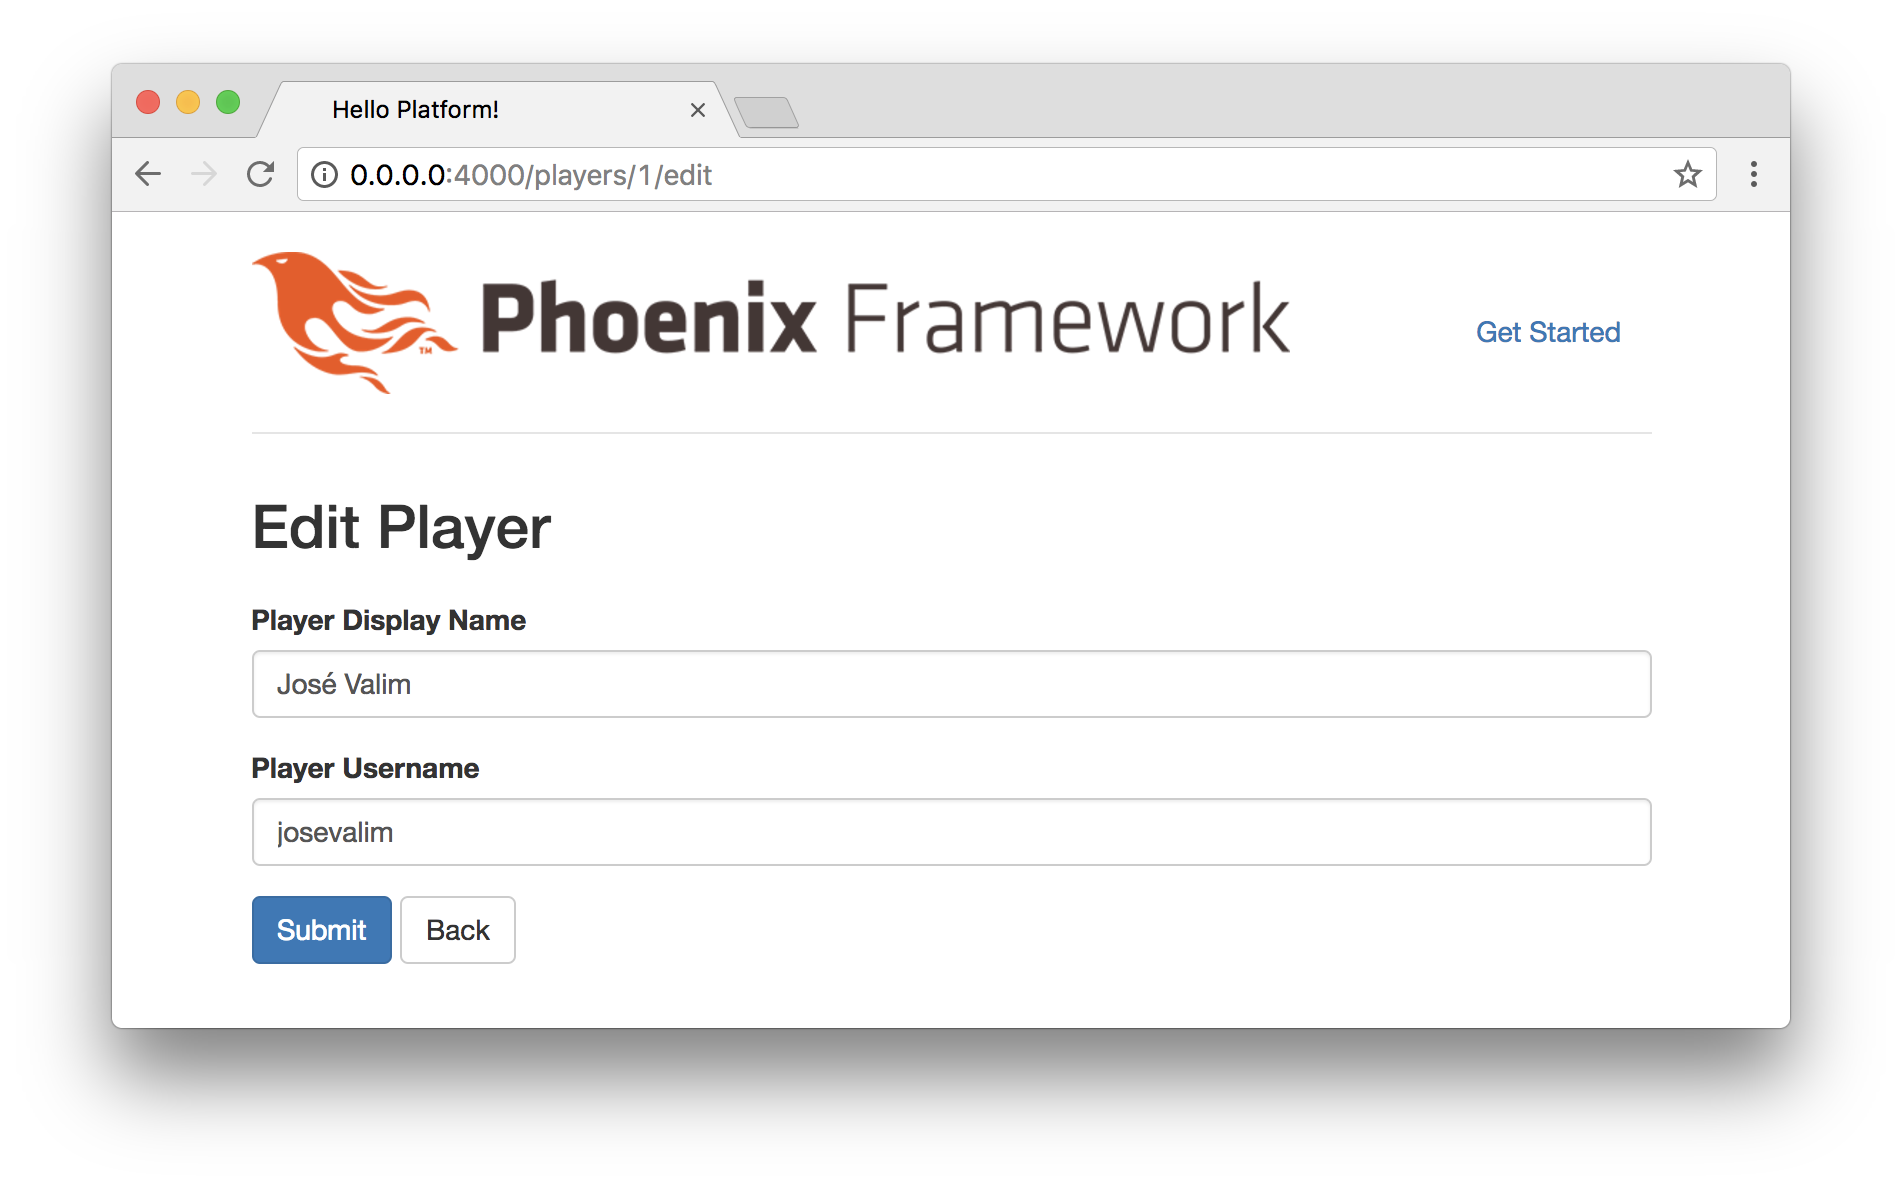
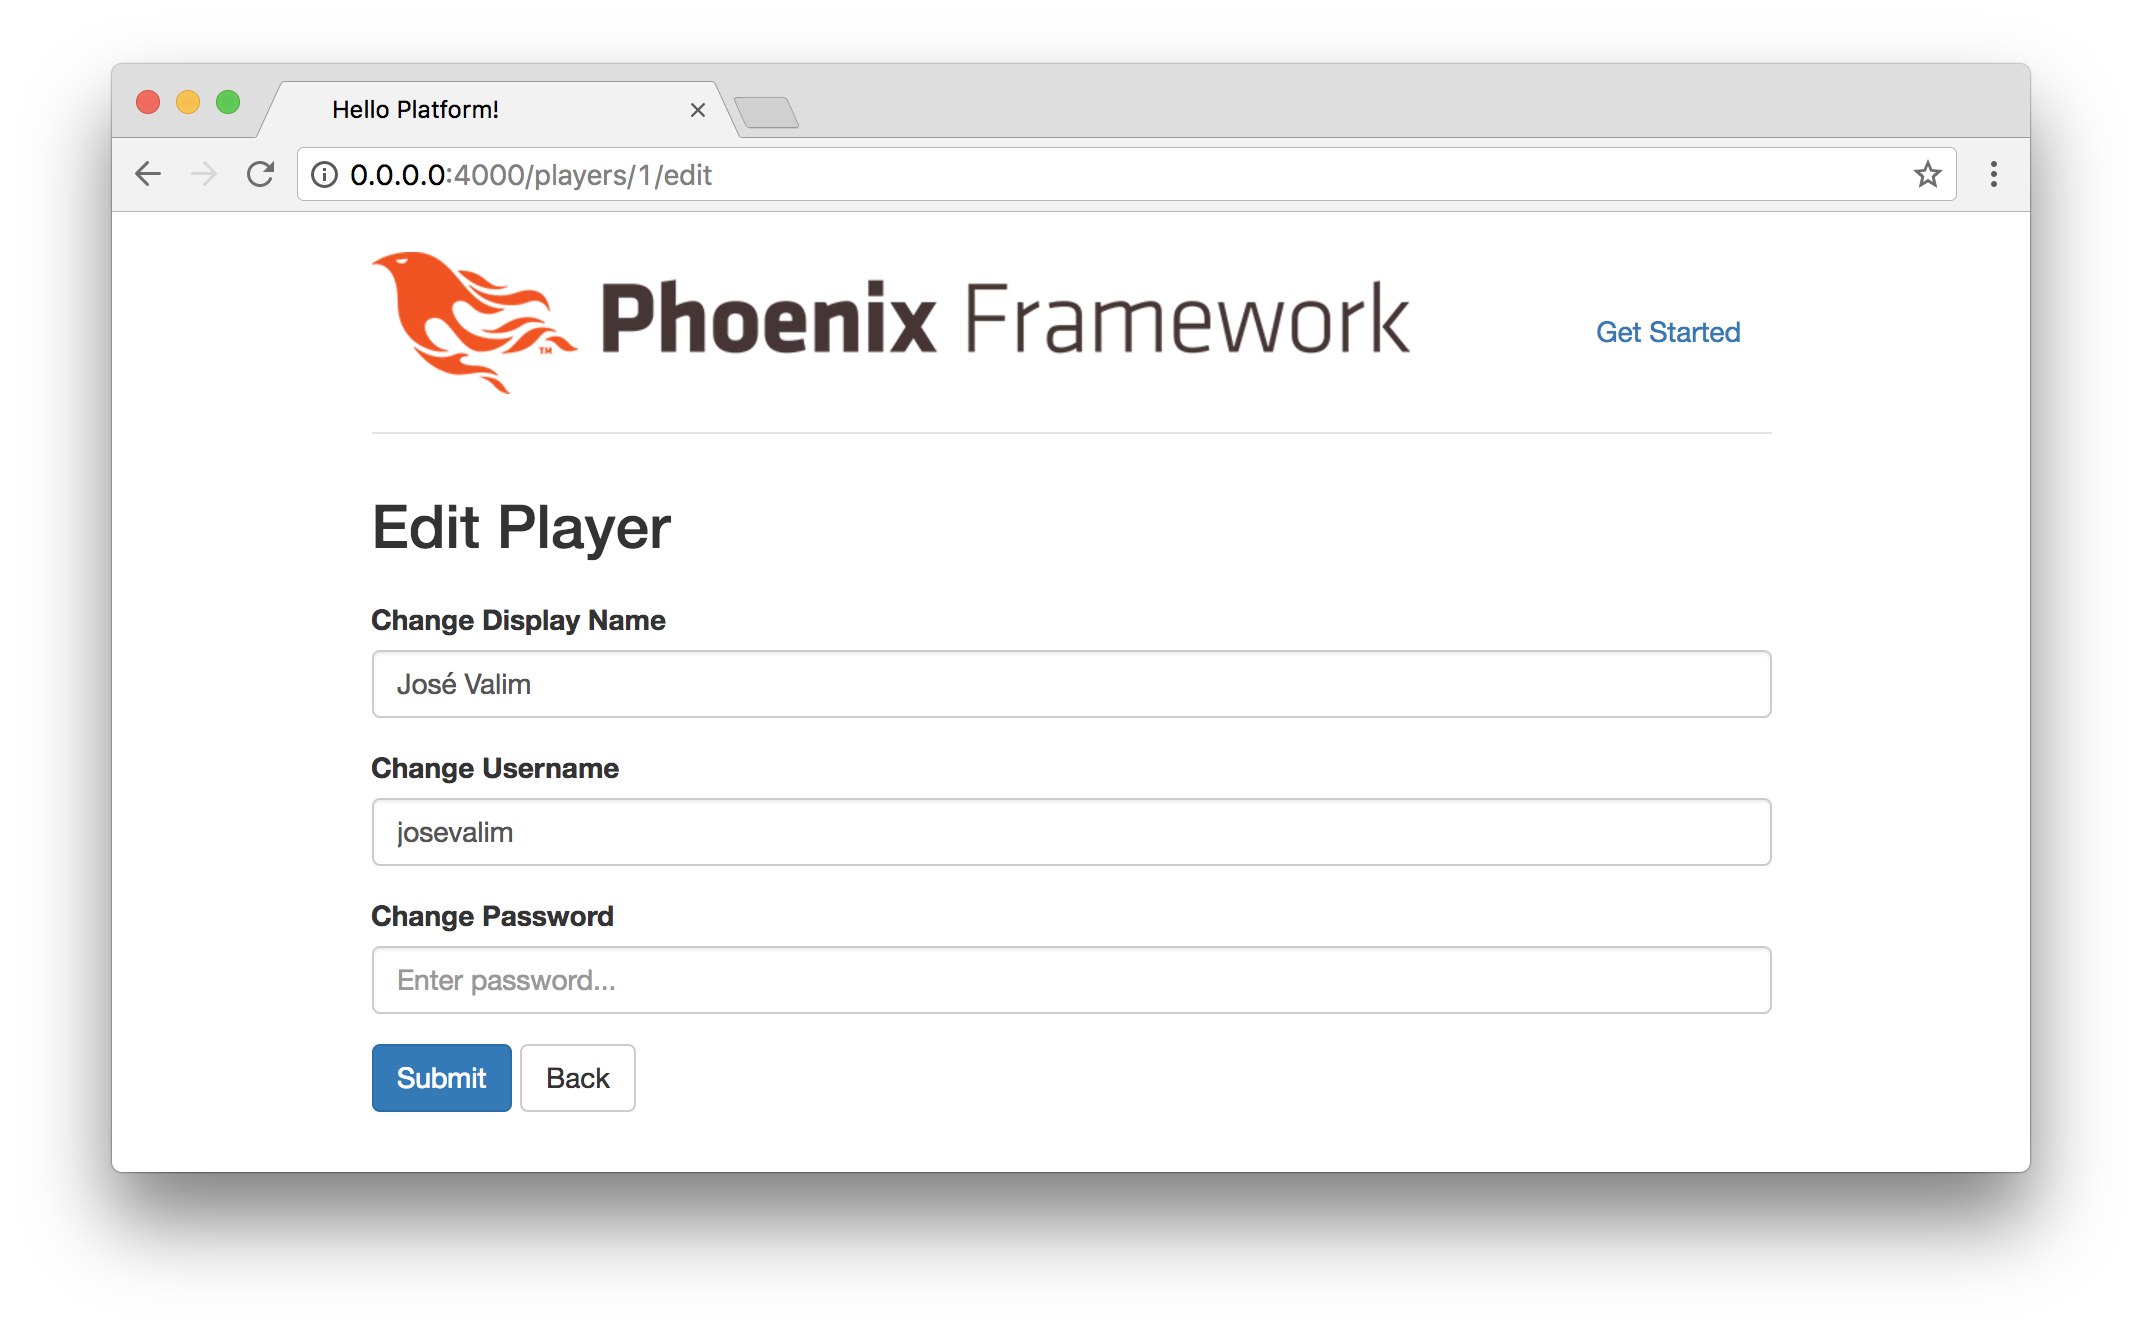
Add field in sign up chapter, update screenshot

Changed region(s): [[0.031, 0.0311, 0.9616, 0.9032], [0.7445, 0.218, 0.8375, 0.3114], [0.9306, 0.0311, 0.9616, 0.0623]]

diff --git a/manuscript/phoenix_sign_up.md b/manuscript/phoenix_sign_up.md
@@ -346,7 +346,9 @@ For the **Edit Player** page, we're going to do much of the same that we did
 for the **New Player** page. We want users to be able to adjust their
 `username` and `display_name` fields for example, but they shouldn't be able to
 manually alter their `score` field since that data should be coming from the
-games they play on the platform.
+games they play on the platform. Since we won't have a full authentication
+system with a reset password feature, we'll also allow users to change their
+`password` as needed on this page.
 
 Update the `lib/platform_web/templates/player/edit.html.eex` file to contain
 the following:
@@ -362,15 +364,21 @@ the following:
   <% end %>
 
   <div class="form-group">
-    <%= label f, :display_name, "Player Display Name", class: "control-label" %>
+    <%= label f, :display_name, "Change Display Name", class: "control-label" %>
     <%= text_input f, :display_name, placeholder: "Enter display name...", class: "form-control" %>
     <%= error_tag f, :display_name %>
   </div>
 
   <div class="form-group">
-    <%= label f, :username, "Player Username", class: "control-label" %>
+    <%= label f, :username, "Change Username", class: "control-label" %>
     <%= text_input f, :username, placeholder: "Enter username...", class: "form-control" %>
     <%= error_tag f, :username %>
+  </div>
+
+  <div class="form-group">
+    <%= label f, :password, "Change Password", class: "control-label" %>
+    <%= text_input f, :password, placeholder: "Enter password...", class: "form-control" %>
+    <%= error_tag f, :password %>
   </div>
 
   <div class="form-group">
